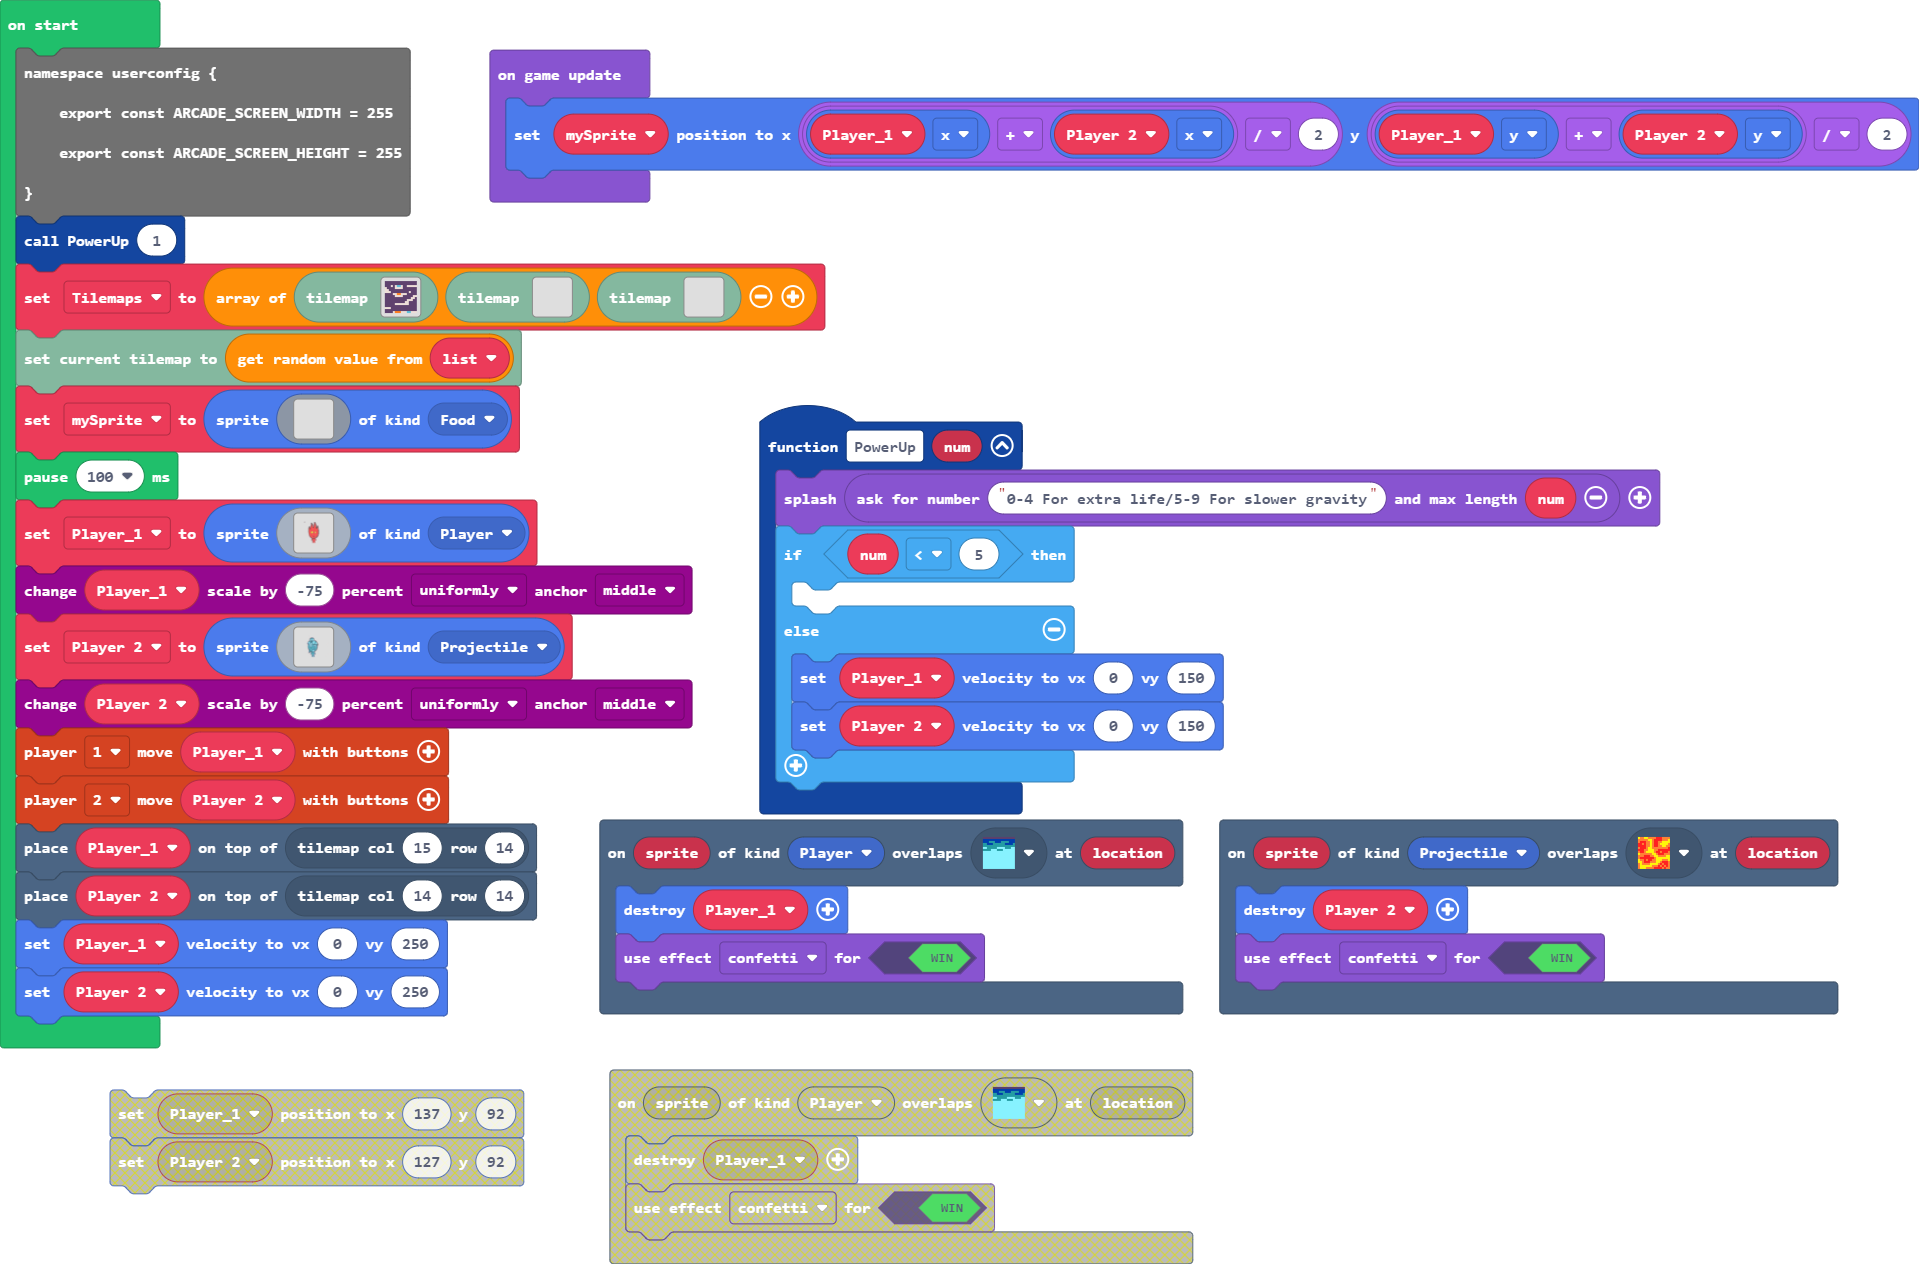
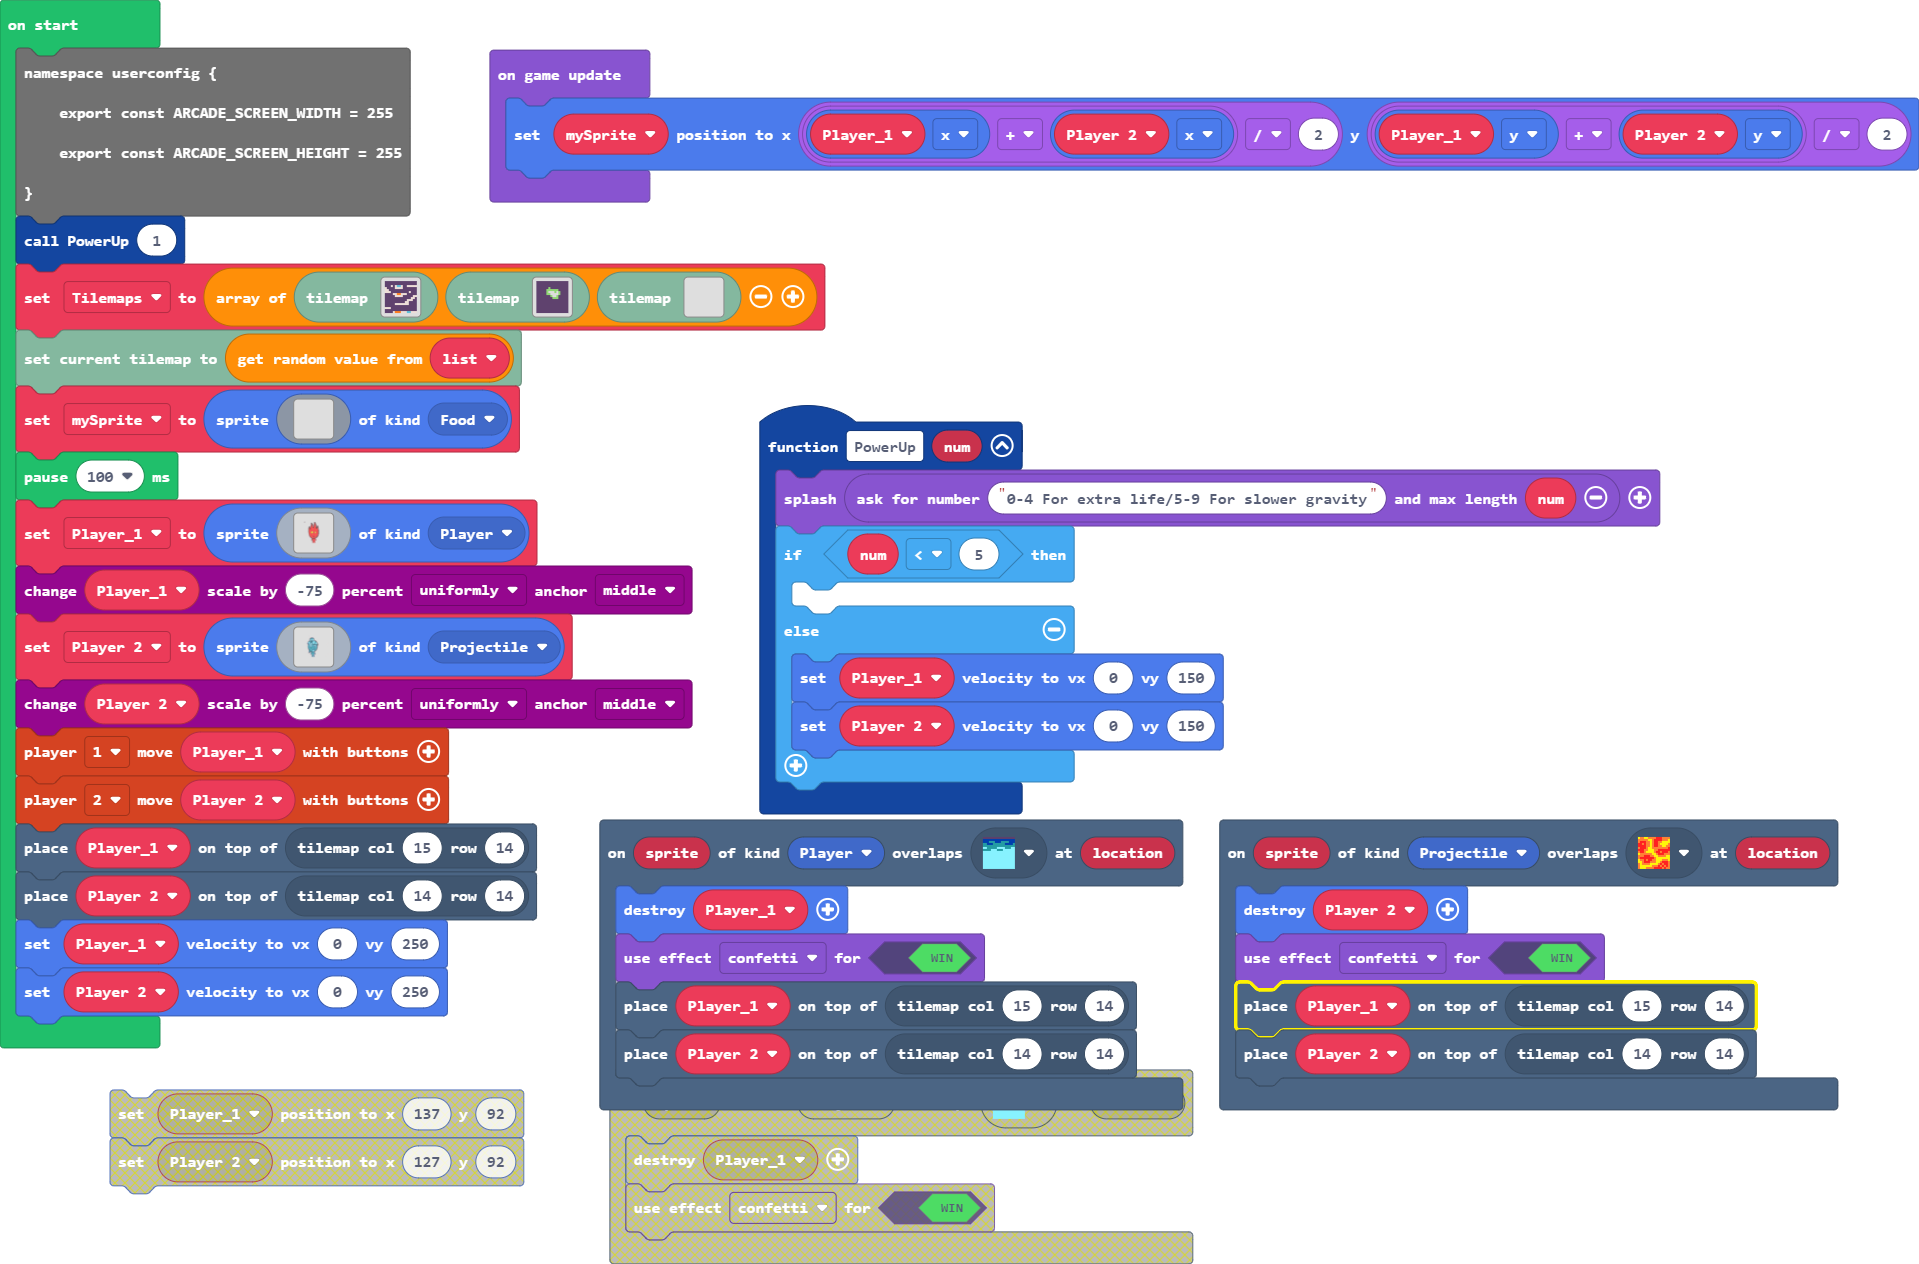
Update main.blocks, main.ts

Changed region(s): [[0.3075, 0.7714, 0.9838, 0.8948], [0.2767, 0.216, 0.3075, 0.2468]]

diff --git a/main.ts b/main.ts
@@ -10,10 +10,14 @@ function PowerUp (num: number) {
 scene.onOverlapTile(SpriteKind.Player, sprites.dungeon.hazardWater, function (sprite, location) {
     sprites.destroy(Player_1)
     game.setGameOverEffect(true, effects.confetti)
+    tiles.placeOnTile(Player_1, tiles.getTileLocation(15, 14))
+    tiles.placeOnTile(Player_2, tiles.getTileLocation(14, 14))
 })
 scene.onOverlapTile(SpriteKind.Projectile, sprites.dungeon.hazardLava1, function (sprite, location) {
     sprites.destroy(Player_2)
     game.setGameOverEffect(true, effects.confetti)
+    tiles.placeOnTile(Player_1, tiles.getTileLocation(15, 14))
+    tiles.placeOnTile(Player_2, tiles.getTileLocation(14, 14))
 })
 let Player_2: Sprite = null
 let Player_1: Sprite = null
